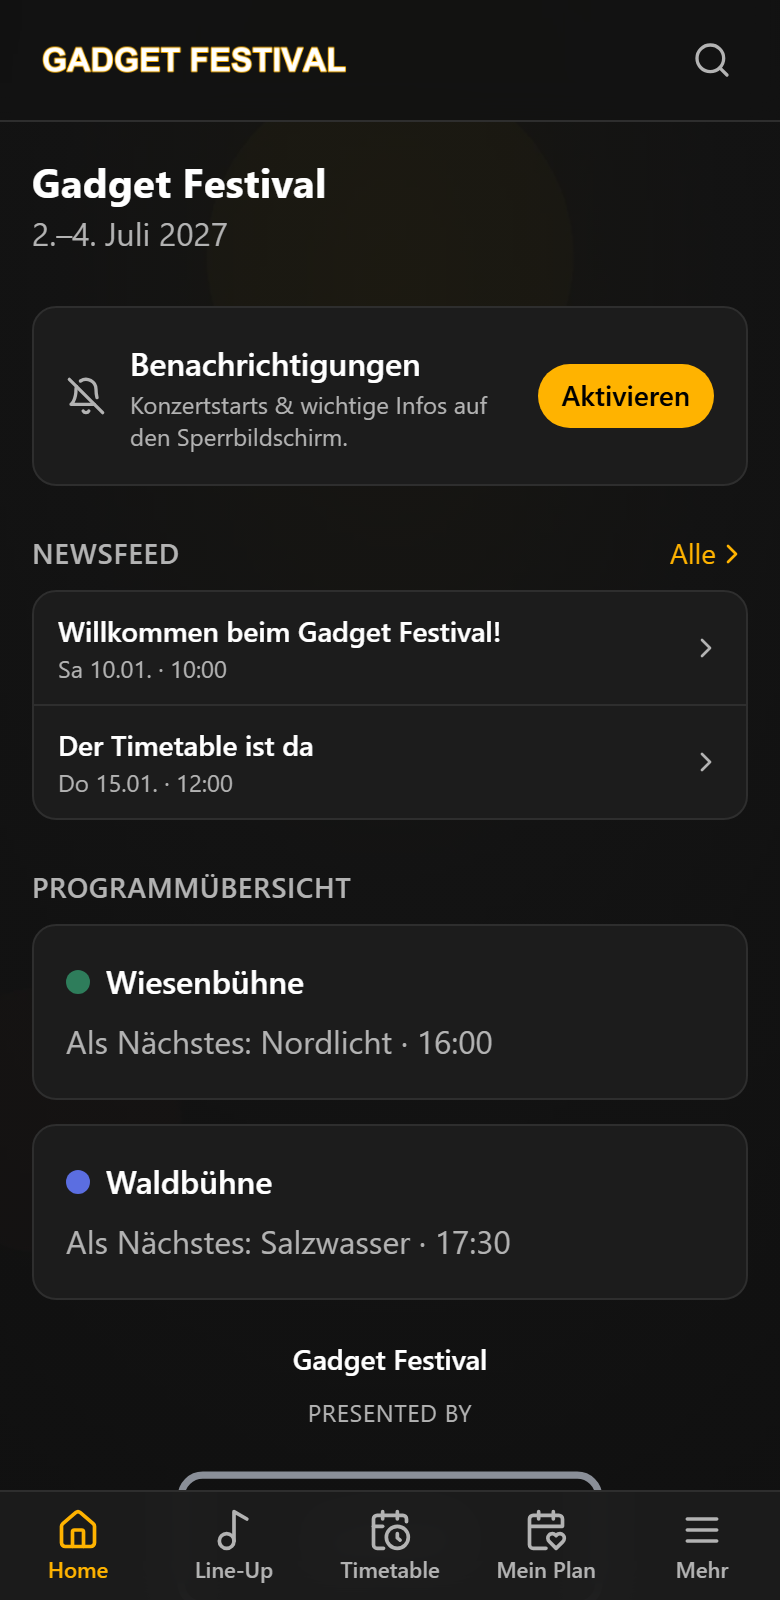
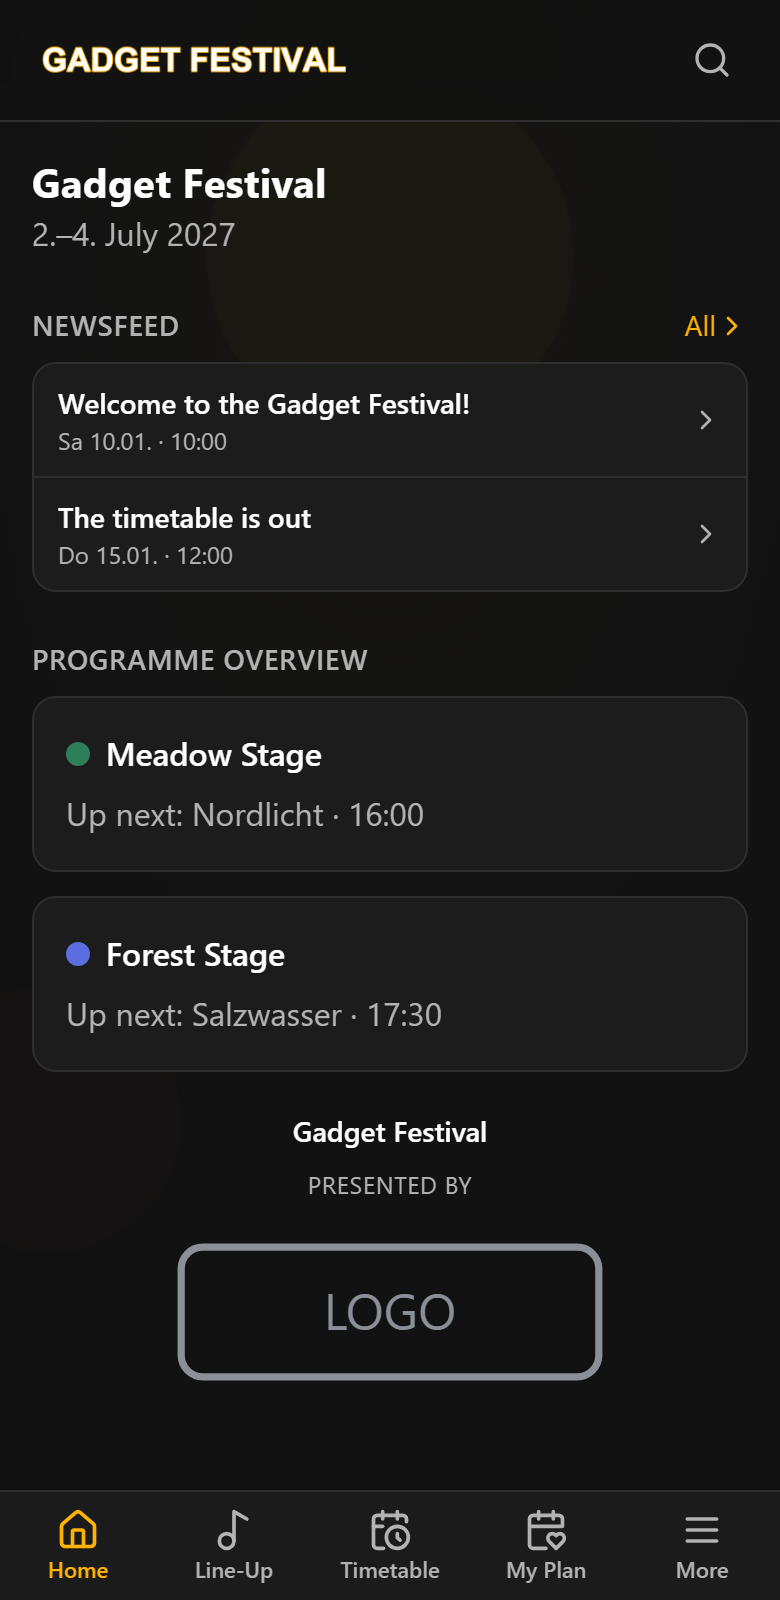
docs: README rework (installation front and center, under 5 minutes) + English UI screenshots

diff --git a/README.de.md b/README.de.md
@@ -22,6 +22,29 @@ und auf ein einheitliches Schema normalisiert. Referenzprojekt: ROCK IM DORF Fes
 |---|---|---|
 | ![Karte](docs/screenshots/map.png) | ![Newsfeed](docs/screenshots/news.png) | ![Mehr](docs/screenshots/more.png) |
 
+## Installation – in unter 5 Minuten
+
+Keine Build-Maschine, keine Kommandozeile, kein technisches Vorwissen nötig.
+Wer Dateien auf einen Webspace hochladen kann, kann Festivadget betreiben:
+
+1. **Herunterladen**: das aktuelle Release-Paket (`festivadget-vX.Y.Z.zip`)
+   von der [Releases-Seite](../../releases/latest).
+2. **Hochladen**: den Inhalt per FTP in den Webroot einer (Sub-)Domain auf
+   einem beliebigen PHP-Webspace (Shared Hosting genügt).
+3. **Öffnen**: `https://deine-domain/install/` im Browser. Der Assistent
+   prüft alle Voraussetzungen, fragt ein CMS-Admin-Passwort ab (plus optional
+   MySQL für Web-Push – die VAPID-Schlüssel werden automatisch erzeugt) und
+   richtet alles ein. Bewusst dummy-sicher: nicht unterstützte
+   Konstellationen werden mit klarer Meldung abgefangen, bevor irgendetwas
+   geschrieben wird.
+4. **Löschen**: den Ordner `install/` (ein Klick auf der Abschlussseite) –
+   fertig. App unter `/`, CMS unter `/push/cms/`.
+
+Das Paket enthält ein fiktives Beispiel-Festival („Gadget Festival") –
+Inhalte ersetzt du direkt im CMS. Updates sind ein Klick im CMS-Tab
+„Update"; deine Inhalte bleiben unangetastet. Details:
+[docs/INSTALL.de.md](docs/INSTALL.de.md).
+
 ## Features
 
 - **Home-Dashboard**: „Jetzt/Als Nächstes"-Programmblock, Newsfeed-Vorschau,
@@ -79,18 +102,12 @@ Vertiefung: [`IMPLEMENTATION.de.md`](IMPLEMENTATION.de.md) (Konzept),
 [`docs/DATEN.de.md`](docs/DATEN.de.md) (Datenanbindung),
 [`docs/TELEGRAM.de.md`](docs/TELEGRAM.de.md) (Live-News).
 
-## Installation ohne Build-Maschine (Release-Paket)
+## Setup (Entwicklung)
 
-Der einfachste Weg zur eigenen Instanz: ein Release-Paket
-(`festivadget-vX.Y.Z.zip`) auf einen beliebigen PHP-Webspace hochladen und
-`/install/` im Browser öffnen – ein Web-Installer nach dem Joomla-Prinzip
-richtet alles ein (CMS-Passwort, optional MySQL für Web-Push, VAPID-Schlüssel
-werden serverseitig erzeugt). Siehe [docs/INSTALL.de.md](docs/INSTALL.de.md).
-Maintainer bauen das Paket mit `tools/build-release.ps1`.
+Nur für **Entwicklung** oder eigene Builds nötig – zum bloßen Betreiben von
+Festivadget das [Installationspaket](#installation--in-unter-5-minuten) oben
+verwenden. Maintainer bauen Release-Pakete mit `tools/build-release.ps1`.
 
-Das folgende Setup braucht man nur für die **Entwicklung** oder eigene Builds.
-
-## Setup
 
 Voraussetzungen: **Node.js ≥ 20** und **pnpm** (`corepack enable` genügt).
 

diff --git a/README.md b/README.md
@@ -22,6 +22,28 @@ single schema. Reference project: ROCK IM DORF Festival
 |---|---|---|
 | ![Map](docs/screenshots/map.png) | ![News feed](docs/screenshots/news.png) | ![More](docs/screenshots/more.png) |
 
+## Installation – takes less than 5 minutes
+
+No build machine, no command line, no technical knowledge required. If you can
+upload files to a web space, you can run Festivadget:
+
+1. **Download** the latest release package (`festivadget-vX.Y.Z.zip`) from the
+   [releases page](../../releases/latest).
+2. **Upload** its contents via FTP into the webroot of a (sub)domain on any
+   PHP web space (shared hosting is fine).
+3. **Open** `https://your-domain/install/` in the browser. The wizard checks
+   every requirement, asks for a CMS admin password (plus optional MySQL for
+   web push – the VAPID keys are generated automatically) and sets everything
+   up. It is deliberately foolproof: unsupported setups are caught with a
+   clear message before anything is written.
+4. **Delete** the `install/` folder (one click on the final page) – done.
+   App at `/`, CMS at `/push/cms/`.
+
+The package ships with a fictional sample festival ("Gadget Festival") –
+replace the content right in the CMS. Updates are one click in the CMS
+"Update" tab; your content is never touched. Details:
+[docs/INSTALL.md](docs/INSTALL.md).
+
 ## Features
 
 - **Home dashboard**: "Now / up next" programme block, news feed preview, sponsor
@@ -82,18 +104,12 @@ Deep dives: [`IMPLEMENTATION.md`](IMPLEMENTATION.md) (concept),
 [`docs/TELEGRAM.md`](docs/TELEGRAM.md) (live news). All docs are also
 available in German, French and Spanish (language links at the top of each file).
 
-## Installation without a build machine (release package)
+## Setup (development)
 
-The easiest way to run your own instance: take a release package
-(`festivadget-vX.Y.Z.zip`), upload it to any PHP webspace and open
-`/install/` in the browser – a Joomla-style web installer sets everything up
-(CMS password, optional MySQL for web push, VAPID keys are generated
-server-side). See [docs/INSTALL.md](docs/INSTALL.md). Maintainers build
-the package with `tools/build-release.ps1`.
+Only needed for **development** or custom builds – to simply run Festivadget,
+use the [installation package](#installation--takes-less-than-5-minutes)
+above. Maintainers build release packages with `tools/build-release.ps1`.
 
-The setup below is only needed for **development** or custom builds.
-
-## Setup
 
 Requirements: **Node.js ≥ 20** and **pnpm** (`corepack enable` is enough).
 
